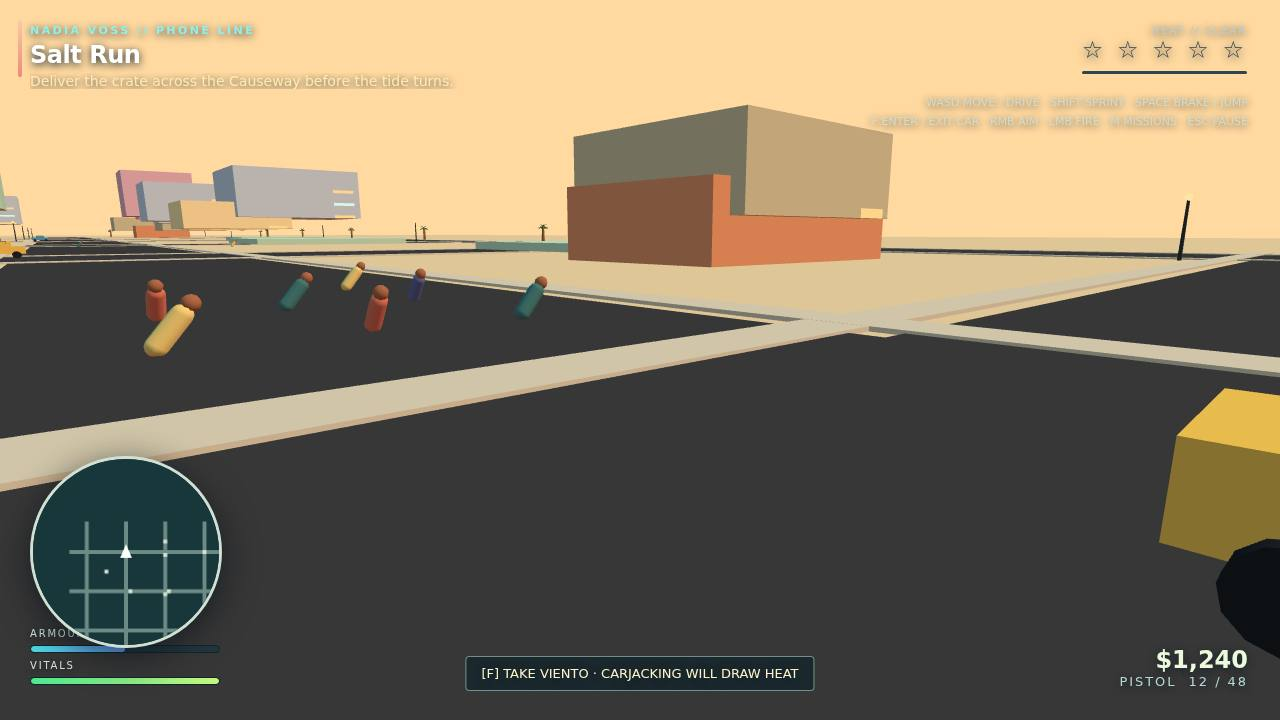
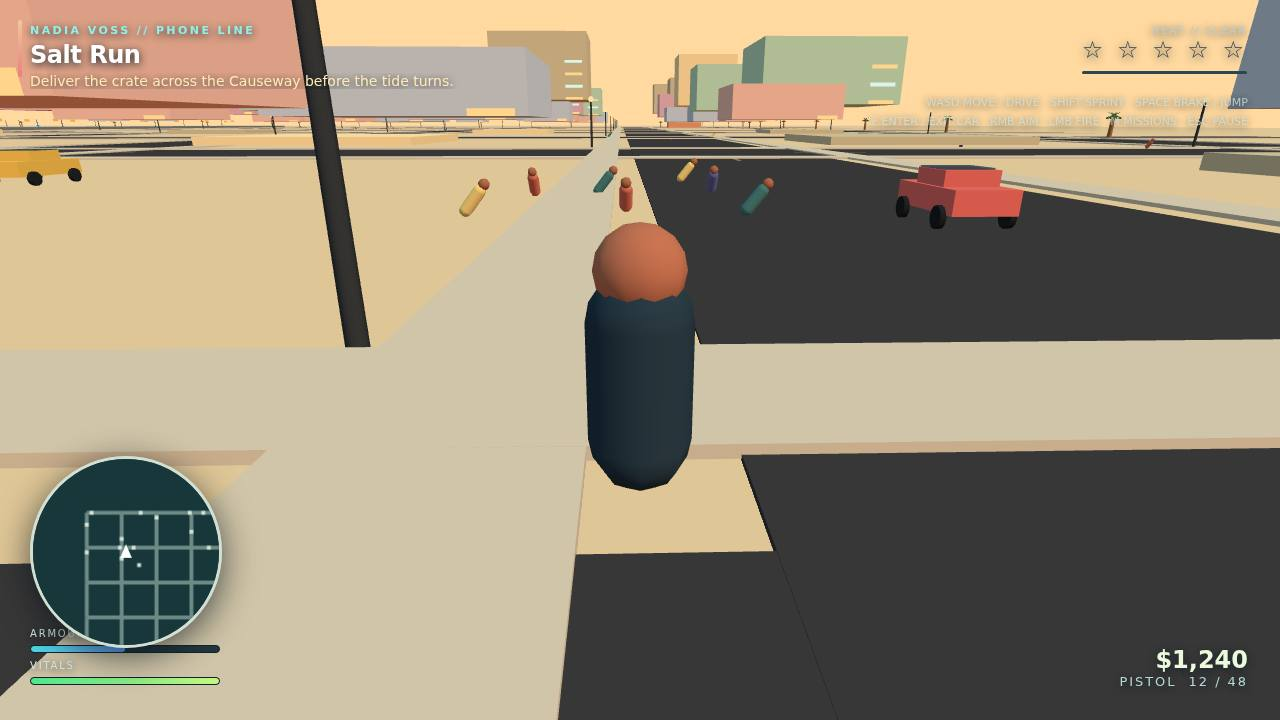
build: phase 2

diff --git a/game/js/main.js b/game/js/main.js
@@ -2,7 +2,7 @@ import * as THREE from 'three';
 import {createInput} from './input.js';
 import {createAudio} from './audio.js';
 import {createWorld} from './world.js';
-import {createPlayer} from './player.js';
+import {createPlayer, updateOrbitCamera} from './player.js';
 import {createVehicle,enterVehicle,exitVehicle,nearestVehicle,updateVehiclePhysics} from './vehicles.js';
 import {createTraffic} from './traffic.js';
 import {createPedestrians} from './pedestrians.js';
@@ -16,21 +16,21 @@ import {saveGame,loadGame} from './save.js';
 const canvas=document.getElementById('game'),renderer=new THREE.WebGLRenderer({canvas,antialias:true,powerPreference:'high-performance'});renderer.setPixelRatio(Math.min(1.5,devicePixelRatio||1));renderer.shadowMap.enabled=true;renderer.outputColorSpace=THREE.SRGBColorSpace;
 const scene=new THREE.Scene(),camera=new THREE.PerspectiveCamera(58,innerWidth/innerHeight,.1,1300);camera.position.set(0,7,12);
 const world=createWorld(scene),input=createInput(canvas),audio=createAudio(),player=createPlayer(scene),traffic=createTraffic(scene,world),pedestrians=createPedestrians(scene,world),police=createPolice(scene,world),missions=createMissions(),hud=createHud(),minimap=createMinimap();
-const parked=createVehicle(scene,'Brisa',-315,-225,Math.PI/2),marea=createVehicle(scene,'Marea',-90,-270,0),streetCar=createVehicle(scene,'Viento',-270,-270,0);parked.ai=false;marea.ai=false;streetCar.ai=false;traffic.vehicles.push(parked,marea,streetCar);
+const parked=createVehicle(scene,'Brisa',-280,-255,0),marea=createVehicle(scene,'Marea',-80,-280,0),streetCar=createVehicle(scene,'Viento',-240,-240,0);parked.ai=false;marea.ai=false;streetCar.ai=false;traffic.vehicles.push(parked,marea,streetCar);
 const game={scene,camera,world,input,audio,player,traffic,pedestrians,police,missions,hud,ui:hud,minimap,money:1240,prompt:'',combatKills:0,screen:'menu',lastShot:0};police.setGame(game);const combat=createCombat(scene,audio,police,pedestrians);game.combat=combat;
-const menu=document.getElementById('menu'),pause=document.getElementById('pause'),dialog=document.getElementById('dialogue');let camYaw=0,camPitch=-.18,clock=new THREE.Clock();
+const menu=document.getElementById('menu'),pause=document.getElementById('pause'),dialog=document.getElementById('dialogue');let camYaw=0,camPitch=-.18,clock=new THREE.Clock(),accumulator=0;
 function resize(){renderer.setSize(innerWidth,innerHeight,false);camera.aspect=innerWidth/innerHeight;camera.updateProjectionMatrix()}addEventListener('resize',resize);resize();
 function setScreen(s){game.screen=s;menu.style.display=s==='menu'?'flex':'none';pause.style.display=s==='pause'?'flex':'none'}
-function newGame(){audio.start();game.money=1240;missions.index=0;police.reset();player.health=100;player.armour=50;player.object.position.set(-300,0,-225);player.object.visible=true;player.inCar=null;setScreen('play');missions.begin(game)}
+function newGame(){audio.start();game.money=1240;missions.index=0;police.reset();player.health=100;player.armour=50;player.object.position.set(-280,0,-250);player.object.visible=true;player.inCar=null;setScreen('play');missions.begin(game)}
 function continueGame(){audio.start();if(!loadGame(game))newGame();else{setScreen('play');missions.setWaypoint()}}
 document.getElementById('newGame').onclick=newGame;document.getElementById('continueGame').onclick=continueGame;document.getElementById('resume').onclick=()=>setScreen('play');document.getElementById('saveQuit').onclick=()=>{saveGame(game);setScreen('menu')};
 document.getElementById('sensitivity').oninput=e=>game.sensitivity=Number(e.target.value);document.getElementById('volume').oninput=e=>audio.setVolume(Number(e.target.value));dialog.addEventListener('click',()=>missions.advanceDialogue(game));
 function handleInput(){const look=input.look(),sens=game.sensitivity||1;camYaw-=look.x*.002*sens;camPitch=Math.max(-.62,Math.min(.18,camPitch-look.y*.002*sens));if(!missions.dialogue&&input.consume('KeyM'))missions.startDialogue(game,['Nadia is on the line. Pick a job, Rico.','Keep your eyes on the gold marker.'],()=>{});if(missions.dialogue&&input.consume('Enter'))missions.advanceDialogue(game);if(input.consume('Escape'))setScreen(game.screen==='pause'?'play':game.screen==='play'?'pause':game.screen);}
 function playerVehicle(){const v=player.inCar;if(!v)return;const control={forward:(input.down('KeyW')?1:0)-(input.down('KeyS')?1:0),steer:(input.down('KeyD')?1:0)-(input.down('KeyA')?1:0),brake:input.down('Space')};updateVehiclePhysics(v,control,world,1/60);audio.engine(Math.abs(v.speed));}
 function handleCar(){if(!input.consume('KeyF'))return;if(player.inCar){exitVehicle(player.inCar,player);return}const v=nearestVehicle([...traffic.vehicles,...police.cruisers],player.object.position,7);if(v){if(v.occupied){return}enterVehicle(v,player);police.addWanted(1);audio.crash();}}
-function updateCamera(dt){const focus=player.inCar?player.inCar.position:player.object.position;const yaw=player.inCar?player.inCar.yaw+camYaw:player.yaw+camYaw;const dist=player.inCar?8.6:5.2;const height=player.inCar?3.5:2.5;const desired=new THREE.Vector3(focus.x-Math.sin(yaw)*dist,focus.y+height,focus.z-Math.cos(yaw)*dist);camera.position.lerp(desired,1-Math.pow(.001,dt));const look=new THREE.Vector3(focus.x+Math.sin(yaw)*8,focus.y+(player.inCar?1.2:1.55)+camPitch*4,focus.z+Math.cos(yaw)*8);camera.lookAt(look)}
-function update(dt){handleInput();handleCar();player.update(input,world,dt);playerVehicle();traffic.update(dt,player,police);pedestrians.update(dt,player);police.update(dt,player);combat.update(dt,input,player,camera);game.combatKills=pedestrians.peds.filter(p=>!p.alive).length+police.cops.filter(c=>c.alive===false).length;missions.update(dt,game);updateCamera(dt);world.sea.position.x=Math.sin(performance.now()*.0002)*4;game.prompt='';if(!player.inCar){const v=nearestVehicle([...traffic.vehicles],player.object.position,6);if(v)game.prompt=`[F] TAKE ${v.type.toUpperCase()}  ·  CARJACKING WILL DRAW HEAT`;else if(Math.abs(player.object.position.x)<28&&Math.abs(player.object.position.z-250)<28)game.prompt='[F] CALL NADIA // MISSION PHONE';for(const pick of world.pickups)if(pick.active&&player.object.position.distanceTo(new THREE.Vector3(pick.x,0,pick.z))<5){pick.active=false;pick.mesh.visible=false;if(pick.type==='HEALTH')player.health=100;else player.armour=50;audio.pickup()}}else game.prompt='[F] EXIT VEHICLE';if(player.health<35)hud.damage();if(player.health<=0){hud.flashMessage('WASTED // PRESS ENTER TO RETURN');game.screen='pause'}hud.update(game);minimap.draw(game)}
-function frame(){requestAnimationFrame(frame);const dt=Math.min(.05,clock.getDelta());if(game.screen==='play')update(dt);renderer.render(scene,camera)}
+function updateCamera(dt){const focus=player.inCar?player.inCar.position:player.object.position;const yaw=player.inCar?player.inCar.yaw+camYaw:camYaw;const distance=player.inCar?8.6:5.2;updateOrbitCamera(camera,focus,yaw,camPitch,distance,world.group.children,dt)}
+function update(dt){handleInput();handleCar();player.yaw=camYaw;player.update(input,world,dt);playerVehicle();traffic.update(dt,player,police);pedestrians.update(dt,player);police.update(dt,player);combat.update(dt,input,player,camera);game.combatKills=pedestrians.peds.filter(p=>!p.alive).length+police.cops.filter(c=>c.alive===false).length;missions.update(dt,game);updateCamera(dt);world.sea.position.x=Math.sin(performance.now()*.0002)*4;game.prompt='';if(!player.inCar){const v=nearestVehicle([...traffic.vehicles],player.object.position,6);if(v)game.prompt=`[F] TAKE ${v.type.toUpperCase()}  ·  CARJACKING WILL DRAW HEAT`;else if(Math.abs(player.object.position.x)<28&&Math.abs(player.object.position.z-250)<28)game.prompt='[F] CALL NADIA // MISSION PHONE';for(const pick of world.pickups)if(pick.active&&player.object.position.distanceTo(new THREE.Vector3(pick.x,0,pick.z))<5){pick.active=false;pick.mesh.visible=false;if(pick.type==='HEALTH')player.health=100;else player.armour=50;audio.pickup()}}else game.prompt='[F] EXIT VEHICLE';if(player.health<35)hud.damage();if(player.health<=0){hud.flashMessage('WASTED // PRESS ENTER TO RETURN');game.screen='pause'}hud.update(game);minimap.draw(game)}
+function frame(){requestAnimationFrame(frame);const delta=Math.min(.1,clock.getDelta());if(game.screen==='play'){accumulator+=delta;while(accumulator>=1/60){update(1/60);accumulator-=1/60}}renderer.render(scene,camera)}
 window.__viceVerano={game,scene,camera,stageShot(name){stageShot(name)}};
 function stageShot(name){game.screen='play';menu.style.display='none';pause.style.display='none';missions.dialogue=null;missions.index=name==='dialogue'?4:name==='chase'?3:1;missions.setWaypoint();player.health=name==='dialogue'?28:100;player.armour=name==='dialogue'?12:50;player.object.visible=true;player.object.position.set(name==='foot'?-270:-90,0,name==='foot'?-270:-270);player.yaw=0;player.inCar=null;police.reset();if(name==='foot'){pedestrians.peds.slice(0,7).forEach((p,i)=>{p.object.position.set(-270+(i%3-1)*4,0,-252+Math.floor(i/3)*7);p.alive=true})}if(name==='cover'||name==='chase'){enterVehicle(name==='cover'?marea:parked,player);player.inCar.position.set(-90,-0.0,-270);player.inCar.yaw=name==='cover'?0:Math.PI/2;player.inCar.speed=name==='cover'?18:22}if(name==='chase'){police.level=3;police.addWanted(3)}if(name==='dialogue'){player.object.position.set(-250,0,-280);police.level=2;police.addWanted(2);missions.startDialogue(game,[STORY[4].before,'Keep the package moving, Rico.'],()=>{});document.getElementById('flash').style.opacity=.65;setTimeout(()=>document.getElementById('flash').style.opacity=0,160)}hud.update(game);let frames=0;function ready(){frames++;if(frames<6){requestAnimationFrame(ready);return}if(name==='chase'&&police.cruisers[0]){const c=police.cruisers[0],y=player.inCar.yaw;c.position.set(player.inCar.position.x-Math.sin(y)*4,0,player.inCar.position.z-Math.cos(y)*4+1);c.yaw=y;c.group.rotation.y=y}renderer.render(scene,camera);window.__shotReady=true}requestAnimationFrame(ready)}
 const shot=new URLSearchParams(location.search).get('shot');if(shot)stageShot(shot);else setScreen('menu');missions.setWaypoint();frame();

diff --git a/game/js/player.js b/game/js/player.js
@@ -1,3 +1,81 @@
 import * as THREE from 'three';
 import {clamp} from './config.js';
-export function createPlayer(scene){const g=new THREE.Group();const torso=new THREE.Mesh(new THREE.CapsuleGeometry(.45,1.05,4,8),new THREE.MeshLambertMaterial({color:0x273c50}));torso.position.y=1.05;g.add(torso);const head=new THREE.Mesh(new THREE.SphereGeometry(.38,10,8),new THREE.MeshLambertMaterial({color:0xb8735d}));head.position.y=2;g.add(head);const jacket=new THREE.Mesh(new THREE.BoxGeometry(.65,.18,.08),new THREE.MeshLambertMaterial({color:0xe1b56e}));jacket.position.set(0,1.25,.4);g.add(jacket);scene.add(g);return {object:g,health:100,armour:50,inCar:null,velocity:new THREE.Vector3(),yaw:0,pitch:-.18,grounded:true,update(input,world,dt){if(this.inCar)return;const dir=new THREE.Vector3((input.down('KeyD')?1:0)-(input.down('KeyA')?1:0),0,(input.down('KeyS')?1:0)-(input.down('KeyW')?1:0));if(dir.lengthSq()){dir.normalize();const speed=input.down('ShiftLeft')||input.down('ShiftRight')?8:5.2;dir.applyAxisAngle(new THREE.Vector3(0,1,0),this.yaw);this.velocity.x+=(dir.x*speed-this.velocity.x)*Math.min(1,dt*10);this.velocity.z+=(dir.z*speed-this.velocity.z)*Math.min(1,dt*10);this.object.rotation.y=this.yaw}else{this.velocity.x*=.78;this.velocity.z*=.78}if(input.consume('Space')&&this.grounded){this.velocity.y=6.5;this.grounded=false}this.velocity.y-=22*dt;const old=this.object.position.clone();this.object.position.addScaledVector(this.velocity,dt);if(this.object.position.y<=0){this.object.position.y=0;this.velocity.y=0;this.grounded=true}if(world.insideBuilding(this.object.position)){this.object.position.copy(old);this.velocity.x=this.velocity.z=0}this.object.position.x=clamp(this.object.position.x,-400,400);this.object.position.z=clamp(this.object.position.z,-350,350)}}}
+
+function makeCapsule() {
+  const group = new THREE.Group();
+  const body = new THREE.Mesh(new THREE.CapsuleGeometry(.45, 1.05, 4, 8), new THREE.MeshLambertMaterial({color: 0x273c50}));
+  body.position.y = 1.05;
+  group.add(body);
+  const head = new THREE.Mesh(new THREE.SphereGeometry(.38, 10, 8), new THREE.MeshLambertMaterial({color: 0xb8735d}));
+  head.position.y = 2;
+  group.add(head);
+  const jacket = new THREE.Mesh(new THREE.BoxGeometry(.65, .18, .08), new THREE.MeshLambertMaterial({color: 0xe1b56e}));
+  jacket.position.set(0, 1.25, .4);
+  group.add(jacket);
+  return group;
+}
+
+/** Rico's on-foot controller: capsule body, sprint, jump and building collision. */
+export function createPlayer(scene) {
+  const object = makeCapsule();
+  scene.add(object);
+  return {
+    object,
+    health: 100,
+    armour: 50,
+    inCar: null,
+    velocity: new THREE.Vector3(),
+    yaw: 0,
+    pitch: -0.18,
+    grounded: true,
+    update(input, world, dt) {
+      if (this.inCar) return;
+      const direction = new THREE.Vector3(
+        (input.down('KeyD') ? 1 : 0) - (input.down('KeyA') ? 1 : 0),
+        0,
+        (input.down('KeyS') ? 1 : 0) - (input.down('KeyW') ? 1 : 0),
+      );
+      if (direction.lengthSq()) {
+        direction.normalize().applyAxisAngle(new THREE.Vector3(0, 1, 0), this.yaw);
+        const speed = input.down('ShiftLeft') || input.down('ShiftRight') ? 8 : 5.2;
+        this.velocity.x += (direction.x * speed - this.velocity.x) * Math.min(1, dt * 10);
+        this.velocity.z += (direction.z * speed - this.velocity.z) * Math.min(1, dt * 10);
+        this.object.rotation.y = this.yaw;
+      } else {
+        this.velocity.x *= Math.max(0, 1 - dt * 12);
+        this.velocity.z *= Math.max(0, 1 - dt * 12);
+      }
+      if (input.consume('Space') && this.grounded) {
+        this.velocity.y = 6.5;
+        this.grounded = false;
+      }
+      this.velocity.y -= 22 * dt;
+      const old = this.object.position.clone();
+      this.object.position.addScaledVector(this.velocity, dt);
+      if (this.object.position.y <= 0) {
+        this.object.position.y = 0;
+        this.velocity.y = 0;
+        this.grounded = true;
+      }
+      if (world.insideBuilding(this.object.position)) {
+        this.object.position.copy(old);
+        this.velocity.x = 0;
+        this.velocity.z = 0;
+      }
+      this.object.position.x = clamp(this.object.position.x, -400, 400);
+      this.object.position.z = clamp(this.object.position.z, -400, 400);
+    },
+  };
+}
+
+/** Third-person orbit camera with a raycast pull-in when a building blocks the view. */
+export function updateOrbitCamera(camera, target, yaw, pitch, distance, obstacles, dt) {
+  const focus = target.clone().add(new THREE.Vector3(0, 1.25, 0));
+  const offset = new THREE.Vector3(-Math.sin(yaw) * distance, 2.2 + pitch * 2, -Math.cos(yaw) * distance);
+  const desired = focus.clone().add(offset);
+  const ray = new THREE.Raycaster(focus, desired.clone().sub(focus).normalize(), 0, distance);
+  const hits = ray.intersectObjects(obstacles, true);
+  if (hits.length && hits[0].distance > .7) desired.copy(focus).add(offset.normalize().multiplyScalar(Math.max(.8, hits[0].distance - .35)));
+  camera.position.lerp(desired, 1 - Math.pow(.001, dt));
+  camera.lookAt(focus);
+}

diff --git a/game/js/roads.js b/game/js/roads.js
@@ -1,9 +1,94 @@
 import * as THREE from 'three';
-import {CITY,PALETTE} from './config.js';
-export function createRoadNetwork(scene){
- const group=new THREE.Group(), lines=[];const xs=[];for(let x=-360;x<=360;x+=90)xs.push(x);const zs=[];for(let z=-270;z<=270;z+=90)zs.push(z);
- const mat=new THREE.MeshLambertMaterial({color:PALETTE.asphalt}), curb=new THREE.MeshLambertMaterial({color:PALETTE.kerb});
- for(const x of xs){const r=new THREE.Mesh(new THREE.BoxGeometry(CITY.road,.08,600),mat);r.position.set(x,.04,0);group.add(r);const c1=new THREE.Mesh(new THREE.BoxGeometry(2,.14,600),curb);c1.position.set(x-11,.09,0);group.add(c1);const c2=c1.clone();c2.position.x=x+11;group.add(c2);lines.push({x,z:null,axis:'z'})}
- for(const z of zs){const r=new THREE.Mesh(new THREE.BoxGeometry(760,.08,CITY.road),mat);r.position.set(0,.04,z);group.add(r);const c1=new THREE.Mesh(new THREE.BoxGeometry(760,.14,2),curb);c1.position.set(0,.09,z-11);group.add(c1);const c2=c1.clone();c2.position.z=z+11;group.add(c2);lines.push({z,x:null,axis:'x'})}
- scene.add(group);return {group,xs,zs,points:lines,randomPoint(i=0){const x=xs[i%xs.length],z=zs[(i*3+1)%zs.length];return new THREE.Vector3(x,.2,z)}};
+import {CITY, PALETTE} from './config.js';
+
+const ROAD_SPACING = 80;
+const ROAD_COUNT = 10;
+
+function makeRoadSurface(scene, group, material, x, z, width, depth) {
+  const road = new THREE.Mesh(new THREE.BoxGeometry(width, 0.08, depth), material);
+  road.position.set(x, 0.04, z);
+  group.add(road);
+  scene.add(group);
+}
+
+function addSidewalk(group, x, z, width, depth, material) {
+  const sidewalk = new THREE.Mesh(new THREE.BoxGeometry(width, 0.16, depth), material);
+  sidewalk.position.set(x, 0.12, z);
+  group.add(sidewalk);
+}
+
+/** Create the shared lane graph used by traffic, police routes and the minimap. */
+export function createRoadNetwork(scene) {
+  const group = new THREE.Group();
+  const roadMaterial = new THREE.MeshLambertMaterial({color: PALETTE.asphalt});
+  const curbMaterial = new THREE.MeshLambertMaterial({color: PALETTE.kerb});
+  const laneMaterial = new THREE.MeshBasicMaterial({color: 0xd7b965, transparent: true, opacity: .58});
+  const xs = Array.from({length: ROAD_COUNT}, (_, i) => (i - 4.5) * ROAD_SPACING);
+  const zs = Array.from({length: ROAD_COUNT}, (_, i) => (i - 4.5) * ROAD_SPACING);
+  const nodes = [];
+  const edges = [];
+  const nodeAt = (ix, iz) => nodes[iz * ROAD_COUNT + ix];
+  let nodeId = 0;
+
+  for (let iz = 0; iz < ROAD_COUNT; iz += 1) {
+    for (let ix = 0; ix < ROAD_COUNT; ix += 1) {
+      nodes.push({id: nodeId++, ix, iz, position: new THREE.Vector3(xs[ix], .2, zs[iz]), edges: []});
+    }
+  }
+  for (let iz = 0; iz < ROAD_COUNT; iz += 1) {
+    for (let ix = 0; ix < ROAD_COUNT; ix += 1) {
+      const from = nodeAt(ix, iz);
+      for (const [dx, dz] of [[1, 0], [0, 1]]) {
+        const nx = ix + dx, nz = iz + dz;
+        if (nx >= ROAD_COUNT || nz >= ROAD_COUNT) continue;
+        const to = nodeAt(nx, nz);
+        const edge = {from, to, length: ROAD_SPACING, axis: dx ? 'x' : 'z'};
+        edges.push(edge);
+        from.edges.push(edge);
+        to.edges.push({from: to, to: from, length: ROAD_SPACING, axis: edge.axis});
+      }
+    }
+  }
+
+  for (const x of xs) {
+    makeRoadSurface(scene, group, roadMaterial, x, 0, CITY.road, CITY.depth + 30);
+    addSidewalk(group, x - 12, 0, 3, CITY.depth + 30, curbMaterial);
+    addSidewalk(group, x + 12, 0, 3, CITY.depth + 30, curbMaterial);
+    for (const z of zs) {
+      const dash = new THREE.Mesh(new THREE.BoxGeometry(.35, .015, 8), laneMaterial);
+      dash.position.set(x, .1, z - 13);
+      group.add(dash);
+    }
+  }
+  for (const z of zs) {
+    makeRoadSurface(scene, group, roadMaterial, 0, z, CITY.width + 30, CITY.road);
+    addSidewalk(group, 0, z - 12, CITY.width + 30, 3, curbMaterial);
+    addSidewalk(group, 0, z + 12, CITY.width + 30, 3, curbMaterial);
+    for (const x of xs) {
+      const dash = new THREE.Mesh(new THREE.BoxGeometry(8, .015, .35), laneMaterial);
+      dash.position.set(x - 13, .1, z);
+      group.add(dash);
+    }
+  }
+  scene.add(group);
+
+  return {
+    group,
+    xs,
+    zs,
+    nodes,
+    edges,
+    nodeAt(ix, iz) { return nodeAt(ix, iz); },
+    nearestNode(position) {
+      let closest = nodes[0], distance = Infinity;
+      for (const node of nodes) {
+        const next = node.position.distanceToSquared(position);
+        if (next < distance) { distance = next; closest = node; }
+      }
+      return closest;
+    },
+    randomPoint(index = 0) {
+      return nodes[Math.abs(index) % nodes.length].position.clone();
+    },
+  };
 }

diff --git a/game/js/world.js b/game/js/world.js
@@ -9,10 +9,10 @@ export function createWorld(scene){
  const ground=new THREE.Mesh(new THREE.PlaneGeometry(1500,1500),mat(PALETTE.sand));ground.rotation.x=-Math.PI/2;ground.receiveShadow=true;scene.add(ground);
  const sea=new THREE.Mesh(new THREE.PlaneGeometry(1500,240),new THREE.MeshLambertMaterial({color:PALETTE.sea,transparent:true,opacity:.92}));sea.rotation.x=-Math.PI/2;sea.position.set(0,-.08,-450);scene.add(sea);
  const roads=createRoadNetwork(scene), city=new THREE.Group(), collisions=[], landmarks=[], shops=[], pickups=[];scene.add(city);
- for(let ix=-4;ix<4;ix++)for(let iz=-3;iz<3;iz++){const cx=ix*90+45,cz=iz*90+45;if(Math.abs(cx)>350||Math.abs(cz)>275)continue;const district=ix<0&&iz<0?0:ix<0?1:ix>1&&iz<0?3:2;const base=DISTRICTS[district][3];const count=2+(Math.abs(ix+iz)%2);for(let b=0;b<count;b++){const x=cx+(b?((b*31)%48-24):0),z=cz+(b?((b*47)%48-24):0),w=22+(b*7)%18,d=22+(b*5)%16,h=(district===2?28+(b+ix*2+iz)%4*8:8+(b+iz)%3*7);box(city,x,h/2,z,w,h,d,PALETTE.facades[(ix*3+iz+b+20)%PALETTE.facades.length],collisions);for(let row=0;row<Math.min(4,Math.floor(h/5));row++){const win=box(city,x-w*.36,h/2+row*4,z-d/2-.03,w*.18,.9,.08,0x8dd4d9);win.material=new THREE.MeshBasicMaterial({color:row%2?0xdaf4e8:0xffd58c});}landmarks.push({x,z,name:DISTRICTS[district][0]})}}
- for(let x=-360;x<=360;x+=90){palm(city,x+22,-304,.8);palm(city,x-25,304,.65)}for(let z=-270;z<=270;z+=90){palm(city,-382,z,.7);palm(city,382,z,.7)}
- for(let x=-360;x<=360;x+=90)for(let z=-270;z<=270;z+=90){const lamp=new THREE.Group();const pole=new THREE.Mesh(new THREE.CylinderGeometry(.12,.17,6,6),mat(0x343a42));pole.position.y=3;lamp.add(pole);const bulb=new THREE.Mesh(new THREE.SphereGeometry(.35,8,8),new THREE.MeshBasicMaterial({color:0xffe4a3}));bulb.position.y=6;lamp.add(bulb);lamp.position.set(x+14,0,z+14);city.add(lamp)}
- const shopPoints=[[-315,-225,'SUNSET SUPPLY'],[315,-225,'PALM RADIO'],[-315,225,'DOCKSIDE LOCKER'],[315,225,'MIRAFLORES MART']];for(const [x,z,name] of shopPoints){const s=box(city,x,0,z,26,7,19,0xe3a66e);s.material=mat(0xe79b74);shops.push({x,z,name})}
+ for(let ix=-4;ix<=4;ix++)for(let iz=-4;iz<=4;iz++){const cx=ix*80,cz=iz*80;const district=ix<0&&iz<0?0:ix<0?1:ix>1&&iz<0?3:2;const count=2+(Math.abs(ix+iz)%2);for(let b=0;b<count;b++){const x=cx+(b?((b*31)%42-21):0),z=cz+(b?((b*47)%42-21):0),w=20+(b*7)%17,d=20+(b*5)%17,h=(district===2?28+(b+ix*2+iz)%4*8:8+(b+iz)%3*7);box(city,x,h/2,z,w,h,d,PALETTE.facades[(ix*3+iz+b+30)%PALETTE.facades.length],collisions);for(let row=0;row<Math.min(5,Math.floor(h/5));row++){const win=box(city,x-w*.36,h/2+row*4,z-d/2-.03,w*.18,.9,.08,0x8dd4d9);win.material=new THREE.MeshBasicMaterial({color:row%2?0xdaf4e8:0xffd58c});}landmarks.push({x,z,name:DISTRICTS[district][0]})}}
+ for(let x=-360;x<=360;x+=80){palm(city,x+22,-344,.8);palm(city,x-25,344,.65)}for(let z=-360;z<=360;z+=80){palm(city,-382,z,.7);palm(city,382,z,.7)}
+ for(let x=-360;x<=360;x+=80)for(let z=-360;z<=360;z+=80){const lamp=new THREE.Group();const pole=new THREE.Mesh(new THREE.CylinderGeometry(.12,.17,6,6),mat(0x343a42));pole.position.y=3;lamp.add(pole);const bulb=new THREE.Mesh(new THREE.SphereGeometry(.35,8,8),new THREE.MeshBasicMaterial({color:0xffe4a3}));bulb.position.y=6;lamp.add(bulb);lamp.position.set(x+14,0,z+14);city.add(lamp)}
+ const shopPoints=[[-320,-280,'SUNSET SUPPLY'],[320,-280,'PALM RADIO'],[-320,280,'DOCKSIDE LOCKER'],[320,280,'MIRAFLORES MART']];for(const [x,z,name] of shopPoints){const s=box(city,x,0,z,26,7,19,0xe3a66e);s.material=mat(0xe79b74);shops.push({x,z,name})}
  for(const [x,z,type,color] of [[-180,-270,'HEALTH',0x60ef9a],[180,270,'ARMOUR',0x63c9ff]]){const p=box(city,x,0,z,2,1.8,2,color);p.material=new THREE.MeshBasicMaterial({color,emissive:color});pickups.push({x,z,type,mesh:p,active:true})}
  const pier=new THREE.Mesh(new THREE.BoxGeometry(130,1,180),mat(0x6f574e));pier.position.set(-250,.2,-390);city.add(pier);for(let i=0;i<6;i++){const c=box(city,-290+i*16,.5,-385,12,5,9,[0xd96e59,0x5a83aa,0xe9bd6b][i%3]);landmarks.push({x:-290+i*16,z:-385,name:'HARBORLINE PIER'})}
  const cause=new THREE.Mesh(new THREE.BoxGeometry(34,1,500),mat(0x78838a));cause.position.set(0,1,0);city.add(cause);for(let z=-240;z<=240;z+=28){const rail=box(city,-18,4,z,2,1,.4,0xffd063);box(city,18,4,z,2,1,.4,0xffd063)}

diff --git a/game/js/traffic.js b/game/js/traffic.js
@@ -1,2 +1,47 @@
+import * as THREE from 'three';
 import {createVehicle} from './vehicles.js';
-export function createTraffic(scene,world){const vehicles=[];const types=['Brisa','Marea','Viento','Toro','Camion'];for(let i=0;i<22;i++){const axis=i%2,x=axis?((i%7)-3)*90:((i%5)-2)*90,z=axis?((i%6)-3)*90:((i%9)-4)*90;const v=createVehicle(scene,types[i%types.length],x,z,axis?Math.PI/2:0);v.ai=true;v.lane=axis;v.routeSpeed=12+(i%5)*3;vehicles.push(v)}return {vehicles,update(dt,player,police){for(const v of vehicles){if(v.occupied||!v.ai)continue;v.speed=v.routeSpeed;v.yaw=v.lane?Math.PI/2:0;v.group.rotation.y=v.yaw;v.position.x+=Math.sin(v.yaw)*v.speed*dt;v.position.z+=Math.cos(v.yaw)*v.speed*dt;if(v.lane&&Math.abs(v.position.x)>380)v.position.x=-Math.sign(v.position.x)*380;if(!v.lane&&Math.abs(v.position.z)>300)v.position.z=-Math.sign(v.position.z)*300;if(player.inCar&&v.position.distanceTo(player.inCar.position)<3){player.inCar.speed*=.86;police.addWanted(.15)}}}}}
+
+const TRAFFIC_TYPES = ['Brisa', 'Marea', 'Viento', 'Toro', 'Camion'];
+
+function placeOnEdge(vehicle, edge, distance) {
+  const ratio = distance / edge.length;
+  vehicle.position.lerpVectors(edge.from.position, edge.to.position, ratio);
+  vehicle.yaw = Math.atan2(edge.to.position.x - edge.from.position.x, edge.to.position.z - edge.from.position.z);
+  vehicle.group.rotation.y = vehicle.yaw;
+}
+
+/** Spawn lane-following cars from the shared road graph and advance them edge by edge. */
+export function createTraffic(scene, world) {
+  const vehicles = [];
+  const forwardEdges = world.roads.edges;
+  for (let i = 0; i < 22; i += 1) {
+    const edge = forwardEdges[i % forwardEdges.length];
+    const vehicle = createVehicle(scene, TRAFFIC_TYPES[i % TRAFFIC_TYPES.length], 0, 0, 0);
+    vehicle.ai = true;
+    vehicle.edge = edge;
+    vehicle.distanceOnEdge = (i % 5) * 13;
+    vehicle.routeSpeed = 10 + (i % 5) * 3;
+    placeOnEdge(vehicle, edge, vehicle.distanceOnEdge);
+    vehicles.push(vehicle);
+  }
+  return {
+    vehicles,
+    update(dt, player, police) {
+      for (const vehicle of vehicles) {
+        if (vehicle.occupied || !vehicle.ai) continue;
+        vehicle.distanceOnEdge += vehicle.routeSpeed * dt;
+        while (vehicle.distanceOnEdge >= vehicle.edge.length) {
+          vehicle.distanceOnEdge -= vehicle.edge.length;
+          const choices = vehicle.edge.to.edges.filter((candidate) => candidate.to !== vehicle.edge.from);
+          vehicle.edge = choices[(vehicle.edge.to.id + vehicles.indexOf(vehicle)) % choices.length] || vehicle.edge;
+        }
+        placeOnEdge(vehicle, vehicle.edge, vehicle.distanceOnEdge);
+        vehicle.speed = vehicle.routeSpeed;
+        if (player.inCar && vehicle.position.distanceTo(player.inCar.position) < 3) {
+          player.inCar.speed *= .86;
+          police.addWanted(.15);
+        }
+      }
+    },
+  };
+}

diff --git a/game/js/minimap.js b/game/js/minimap.js
@@ -1,1 +1,1 @@
-export function createMinimap(){const c=document.getElementById('minimap'),x=c.getContext('2d');return {draw(game){const p=game.player.inCar?.position||game.player.object.position;x.clearRect(0,0,192,192);x.fillStyle='#18373b';x.fillRect(0,0,192,192);const scale=.45, map=(a,b)=>[96+(a-p.x)*scale,96+(b-p.z)*scale];x.strokeStyle='#6c8b86';x.lineWidth=4;for(const v of game.world.roads.xs){x.beginPath();x.moveTo(...map(v,-340));x.lineTo(...map(v,340));x.stroke()}for(const v of game.world.roads.zs){x.beginPath();x.moveTo(...map(-400,v));x.lineTo(...map(400,v));x.stroke()}const wp=map(game.missions.waypoint.x,game.missions.waypoint.z);x.fillStyle='#ffd75c';x.beginPath();x.moveTo(wp[0],wp[1]-6);x.lineTo(wp[0]+6,wp[1]);x.lineTo(wp[0],wp[1]+6);x.lineTo(wp[0]-6,wp[1]);x.fill();for(const v of game.traffic.vehicles){const q=map(v.position.x,v.position.z);if(q[0]>0&&q[0]<192&&q[1]>0&&q[1]<192){x.fillStyle='#d6e1d3';x.fillRect(q[0]-2,q[1]-2,4,4)}}for(const v of game.police.cruisers){const q=map(v.position.x,v.position.z);x.fillStyle='#55a9ff';x.beginPath();x.arc(q[0],q[1],4,0,7);x.fill()}x.fillStyle='#fff';x.save();x.translate(96,96);x.rotate(game.player.yaw);x.beginPath();x.moveTo(0,-8);x.lineTo(6,6);x.lineTo(-6,6);x.fill();x.restore();}}}
+export function createMinimap(){const c=document.getElementById('minimap'),x=c.getContext('2d');return {draw(game){const p=game.player.inCar?.position||game.player.object.position;x.clearRect(0,0,192,192);x.fillStyle='#18373b';x.fillRect(0,0,192,192);const scale=.45, map=(a,b)=>[96+(a-p.x)*scale,96+(b-p.z)*scale];x.strokeStyle='#6c8b86';x.lineWidth=4;for(const edge of game.world.roads.edges){x.beginPath();x.moveTo(...map(edge.from.position.x,edge.from.position.z));x.lineTo(...map(edge.to.position.x,edge.to.position.z));x.stroke()}const wp=map(game.missions.waypoint.x,game.missions.waypoint.z);x.fillStyle='#ffd75c';x.beginPath();x.moveTo(wp[0],wp[1]-6);x.lineTo(wp[0]+6,wp[1]);x.lineTo(wp[0],wp[1]+6);x.lineTo(wp[0]-6,wp[1]);x.fill();for(const v of game.traffic.vehicles){const q=map(v.position.x,v.position.z);if(q[0]>0&&q[0]<192&&q[1]>0&&q[1]<192){x.fillStyle='#d6e1d3';x.fillRect(q[0]-2,q[1]-2,4,4)}}for(const v of game.police.cruisers){const q=map(v.position.x,v.position.z);x.fillStyle='#55a9ff';x.beginPath();x.arc(q[0],q[1],4,0,7);x.fill()}x.fillStyle='#fff';x.save();x.translate(96,96);x.rotate(game.player.yaw);x.beginPath();x.moveTo(0,-8);x.lineTo(6,6);x.lineTo(-6,6);x.fill();x.restore();}}}

diff --git a/game/js/missions.js b/game/js/missions.js
@@ -1,5 +1,5 @@
 export const STORY=[
- {title:'Boot & Go',giver:'Nadia Voss',objective:'Find the Brisa and take it for a ride.',zone:[-315,-225],reward:500,kind:'steal',before:'Rico, you still drive like the city owes you money. Start with a Brisa at Coral Row.',after:'Clean lift. Tito is going to hate how easy you made that look.'},
+ {title:'Boot & Go',giver:'Nadia Voss',objective:'Find the Brisa and take it for a ride.',zone:[-280,-255],reward:500,kind:'steal',before:'Rico, you still drive like the city owes you money. Start with a Brisa at Coral Row.',after:'Clean lift. Tito is going to hate how easy you made that look.'},
  {title:'Salt Run',giver:'Tito Bravo',objective:'Deliver the crate across the Causeway before the tide turns.',zone:[0,250],reward:850,kind:'delivery',before:'Crate is in the trunk. Causeway, then Harborline. No sightseeing.',after:'You made the run. The bay kept its secrets.'},
  {title:'Coral Row Shakedown',giver:'Nadia Voss',objective:'Collect from three marked shops in Coral Row.',zone:[-315,-225],reward:1100,kind:'shops',before:'Three little envelopes. Three little doors. Keep the smiles optional.',after:'The Row paid up. Nadia sounds almost impressed.'},
  {title:'Heat on Harborline',giver:'Tito Bravo',objective:'Chase the Camion and ram it to a stop.',zone:[-250,210],reward:1450,kind:'chase',before:'A Camion is running hot along the docks. Put your bumper where its future is.',after:'Harborline is louder now. You made sure of that.'},

diff --git a/README.md b/README.md
@@ -1,12 +1,14 @@
 # Vice Verano: Afterglow
 
-Vice Verano is an original, browser-playable open-world crime game about Rico Salaz, an ex-wheelman trying to make a clean start in a hot coastal city. Coral Row, Harborline, Miraflores, Little Sombra and the Causeway are generated entirely from code with pastel facades, traffic, pedestrians, palms, shops and a working road grid.
+Vice Verano is my original browser crime game: a warm coastal city where Rico Salaz, a former wheelman, is trying to build a new life while Nadia Voss and Tito Bravo keep finding profitable complications. Coral Row, Harborline, Miraflores, Little Sombra and the Causeway are made at runtime from simple geometry, with their own colors, names and story.
 
-## Play
+## Playing
 
-Open `game/index.html` through any static server. Click **New Game**, then use WASD to walk or drive, Shift to sprint, Space to jump or handbrake, and F to enter or leave a vehicle. Right mouse aims, left mouse fires, M opens Nadia’s phone line, and Escape pauses. Stealing cars, shooting and collisions raise the wanted level; escape the search radius to cool it down. The six-story mission chain advances through theft, delivery, collections, a chase, a dock shootout and a four-star escape. Continue restores your local save.
+Start a new game from the title screen. Walk with `WASD`, sprint with `Shift`, jump with `Space`, and look around with the mouse. Walk up to a parked or moving car and press `F` to take it; while driving, `WASD` steers, `Space` handbrakes, and `F` gets Rico out. Hold the right mouse button to aim and click the left button to fire. `M` brings up the phone and `Escape` pauses.
 
-All models, effects, music and sound effects are synthesized in the game. There are no network assets or borrowed art, music, names or story material.
+The six missions move from a Coral Row car lift to a Causeway delivery, shop collections, a Harborline chase, a pier shootout and Marlow’s four-star escape. The gold diamond is the current objective. Car theft, collisions and gunfire bring police attention; break line of sight long enough and the heat cools. Continue uses the browser’s local save to restore money, health, position, wanted level and mission progress.
+
+The art, vehicles, effects, music and sound effects are generated by the game itself. It uses no network assets, external fonts, real brands or borrowed story material.
 
 [![GTA6 bounty](https://make.fun/badge/gta6-01.svg)](https://make.fun/bounty/gta6-01)
 [![Rank](https://make.fun/badge/gta6-01/Dandidcee/vice-verano/rank.svg)](https://make.fun/bounty/gta6-01)
@@ -14,7 +16,7 @@ All models, effects, music and sound effects are synthesized in the game. There 
 
 ## Local run
 
-From the repository root:
+From the repository root, run:
 
 ```sh
 node serve.ts --port 8081
